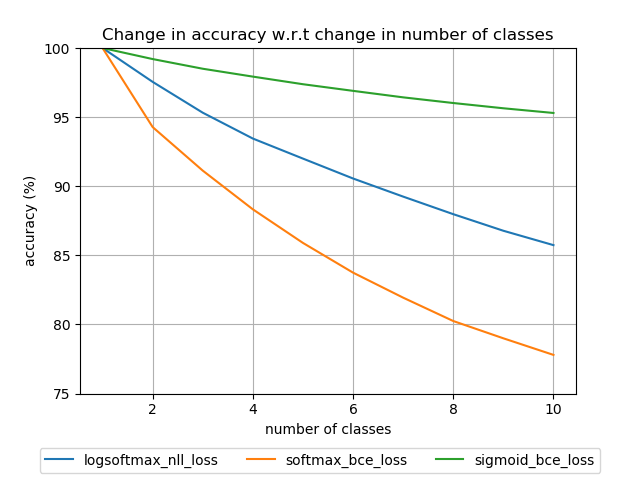
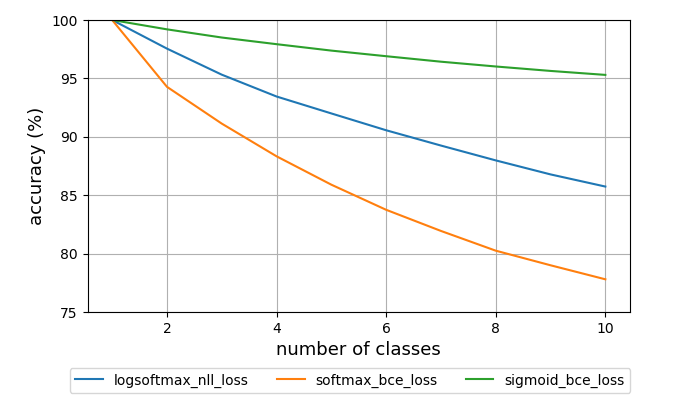
MNIST completed

diff --git a/report/project.tex b/report/project.tex
@@ -40,17 +40,20 @@
 \usepackage{amsmath}
 \usepackage{booktabs}
 \usepackage{multirow}
+\usepackage{titlesec}
+
 \newcommand{\red}[1]{\textcolor{red}{#1}}
+
 
 
 \title{Dynamic Model Construction for Efficient Classification}
 
 \author{
-	Jaejun Lee \\
-	School of Computer Science\\
-	University of Waterloo\\
-	Waterloo, ON, N2L 3G1 \\
-	\texttt{j474lee@uwaterloo.ca} \\
+    Jaejun Lee \\
+    School of Computer Science\\
+    University of Waterloo\\
+    Waterloo, ON, N2L 3G1 \\
+    \texttt{j474lee@uwaterloo.ca} \\
 }
 
 \begin{document}
@@ -85,24 +88,6 @@ Transfer learning is inspired by the same assumption as in multi-task learning; 
 
 \section{Dynamic Model Construction with Class-level Transfer Learning}
 
-% \begin{figure*}[t]
-%     \centering
-%     \begin{subfigure}[b]{.3\linewidth}
-%         \centering
-%         \includegraphics[scale=0.48,trim={0mm 1.6mm 0mm 0mm},clip]{learning_rate.png}
-%     \end{subfigure}%
-%     \begin{subfigure}[b]{.3\linewidth}
-%         \centering
-%         \includegraphics[scale=0.48,trim={0mm 1.6mm 0mm 0mm},clip]{epoch.png}
-%     \end{subfigure}
-%     \begin{subfigure}[b]{.3\linewidth}
-%         \centering
-%         \includegraphics[scale=0.48,trim={0mm 1.6mm 0mm 0mm},clip]{epoch.png}
-%     \end{subfigure}
-%     \caption{Change in accuracy while varying the number of epochs and learning rate, along with 95\% confidence interval (shaded).}
-%     \label{figure:change}
-% \end{figure*}
-
 \subsection{Approach}
 
 In this section, I introduce how to achieve dynamic model construction which adopts to the change in target class set.
@@ -114,14 +99,14 @@ Next consider a case of transfer learning. Pre-training a model and fine-tuning 
 Exploiting these characteristics in two distinct domains, the proposed algorithm can be summarized as following:
 
 \begin{enumerate}
-	\item pre-train a model as if it is targeting multi-classification problem
-	\item freeze the model parameters
-	\item fine-tune a model to obtain class-specific weights (step 4 $\sim$ 7)
-	\item construct a dataset which labels corresponding class as positive and the others as negative.
-	\item replace the last full-connected layer with two classes
-	\item fine-tune the last layer with the constructed data
-	\item store weights for positive class
-	\item at the time of the inference, the last fully-connected layer is dynamically constructed to classify the given set of class by loading corresponding weights obtained from fine-tuning
+    \item pre-train a model as if it is targeting multi-classification problem
+    \item freeze the model parameters
+    \item fine-tune a model to obtain class-specific weights (step 4 $\sim$ 7)
+    \item construct a dataset which labels corresponding class as positive and the others as negative.
+    \item replace the last full-connected layer with two classes
+    \item fine-tune the last layer with the constructed data
+    \item store weights for positive class
+    \item at the time of the inference, the last fully-connected layer is dynamically constructed to classify the given set of class by loading corresponding weights obtained from fine-tuning
 \end{enumerate}
 
 For simplicity, I will call this algorithm as composing algorithm, the model trained for multi-class as base model, models constructed from step 4 $\sim$ 7 as fine-tuned models and the model constructed from the last step as composed model.
@@ -131,9 +116,9 @@ For simplicity, I will call this algorithm as composing algorithm, the model tra
 Recall that the desired composed model should satisfy the following conditions:
 
 \begin{enumerate}
-	\item \red{preserve accuracy}
-	\item Dynamic addition and removal of a class must be possible
-	\item Minimal computation is desired for an inference
+    \item \red{preserve accuracy}
+    \item Dynamic addition and removal of a class must be possible
+    \item Minimal computation is desired for an inference
 \end{enumerate}
 
 Addition and removal of a class is possible with the composing algorithm as it can be achieved simply by adding or removing corresponding fully-connected connections.
@@ -179,54 +164,89 @@ It is found that multi-label classification has raised the same issue with CE lo
 
 \section{Experiments}
 
-In this experiment, I report how accuracy of composed model changes with respect to different loss function. The goal of this experiment is to prove the limitation of CE loss empirically and demonstrates the feasibility of composing algorithm.
+Realising the theoritical limitation of cross entropy loss, I have conducted thorough experiments using PyTorch, reporting how different loss function affects the performance of composed model.
 
-\subsection{Experimental Setup}
+In this experiment, I evaluate three different loss functions. First loss function is CE loss. Since PyTorch NLL loss implementation expects log probability, log is applied after softmax but it is found that this does not affect the conclusion from the experiments. Next, I include sigmoid with BCE loss which successfully preserves accuracy between base and composed model. Lastly, I include BCE loss with softmax. This setting is known to be unstable because BCE loss assumes the independence among classes. In fact, I have observed the training collapse once it reaches a certain point. However, since we report accuracy from the best model, results from this setting is still valid and meaningful. This setting should demonstrate how crucial sigmoid is in the composing algorithm as it simply replace sigmoid with softmax from last setting.
 
-Using PyTorch, the experiments are conducted on MNIST, a standard benchmark for classification~\cite{lecun1998gradient} with a modified version of LeNet-5 ~\cite{lecun2015lenet}. LeNet-5 is constructed with two convolutional, one dropout and two fully connected layers. The original implementation of LeNet-5 has 10 and 20 channels for the two convolutional layers and produces accuracy of 98\% on MNIST dataset. Since our goal of this experiment is to see the performance degradation, the network is modified to have 5 channels for two convolutional layers which is found to produce more descriptive results.
-
-The model is trained with 3 different loss function. First loss function is CE loss. Since PyTorch NLL loss expects log probability, log is applied after softmax but this does not affect the experiment results. Next, I include sigmoid with BCE loss as a proposed solution to preserve accuracy. Lastly, I also include BCE loss with softmax. This setting is useful to understand how crucial sigmoid is for loss function in composing algorithm. The last setting is known to be unstable because BCE loss assumes the independence among classes. In fact, I have observed the training collapse once it reaches a certain point. However, since we report accuracy from the best model, results from this setting is still valid and meaningful.
-
-% Dataset
-% epoch & optimizer
-% random seed 50 experiments taking average
-
-\subsection{Experimental results}
+Experiments are conducted with MNIST, Keyword Spotting, and CIFAR100 varying on number of classes, 10, 30, and, 100 respectively. From each experiment, I report accuracy of base model, fine-tuned model, and composed model. Furthermore, as I construct composed model by adding a class at a time, I also report accuracy for each intermediary composed model to understand how how number of classes affects the accuracy of combined model. It is found that the intermediary composed model accuracy fluctuate quite a bit depending on the order each class is added. Therefore, I repeat this process 10 times for each base model as I randomly select a class to add next.
 
 
-% table explain the original accuracy and high accuracy
+% To reduce the effects of outliers, experiments are conducted multiple times and average results are included in this report. Due to the limited time, number of iterations are different for each experiment and discussed along with other data specific experimental setting in the following section.
+
+\subsection{MNIST}
+
+MNIST is a standard benchmark for classification~\cite{lecun1998gradient} which consist of images for handwritten digits. Among the wide range of model architecture solving this problem, I have conducted my experiments with LeNet-5 ~\cite{lecun2015lenet}. LeNet-5 is constructed with two convolutional, one dropout and two fully connected layers. The original implementation of LeNet-5 has 10 and 20 channels for the two convolutional layers and produces accuracy of 98\% on MNIST dataset. Since our goal of this experiment is to understand the difference in peformance caused by different loss functions, I intentionally limited the expressive power of the network by constructing the network with only 5 channels for both convolutional layers.
+
+Both base model training and fine-tuning is conducted using Adam optimizer with learning rate of 0.0001. It is found that 5 epochs are enough for each training to be converged and LeNet-5 achieves average accuracy of 95\% with the base model and 98\% with the fine-tuned model (see Figure \ref{table:mnist_base} and \ref{table:mnist_fine_tuned}). In fact, all three loss functions present similar accuracy confirming that the comparison on the composed model is fair.
+
+Figure \ref{table:mnist_base} summarizes how the accuracy changes as number of classes increases for composed model. No matter which loss function is used for composing algorithm, decrease in accuracy is found as more classes are involved for the composed model construction. However, models with softmax based loss is found to suffer at a greater rate than models with sigmoid based loss. With CE loss, the composed model for all 10 classes has an accuracy of 85.86\% introducing about 10\% decrease compared to the base model. BCE loss with softmax is found to be the least effective for composing algorithm as it leads to final accuracy of 78.50\%. On the other hand, BCE loss with sigmoid introduces the minimal degradation and achieves the finall accuracy of 95.29\%. This proves that class independence training is crucial with the composing algorithm.
+
+\begin{table}[t]
+    \mbox{}\hfill
+    \begin{minipage}[c]{0.49\textwidth}
+        \centering{\ttfamily
+            \begin{tabular}{cc}
+                \toprule[1pt]
+                \bf{Loss function} &
+                \bf{Base model} \\
+                \midrule
+                LogSoftmax + NLL & 95.82 \\
+                Softmax + BCE & 94.86 \\
+                Sigmoid + BCE & 95.48 \\
+                \bottomrule[1pt]
+            \end{tabular}
+    }
+    \end{minipage}
+    \hfill
+    \begin{minipage}[c]{0.49\textwidth}
+        \centering
+        \includegraphics[scale=0.4,trim={0mm 0mm 0mm 0mm},clip]{mnist.png}
+    \end{minipage}
+    \hfill
+    \mbox{}
+
+    \caption{Accuracy of base model(left) and composed model with respect to number of classes(right)}
+    \label{table:mnist_base}
+\end{table}
 
 \begin{table*}[t]
     \centering
     \small
     \scalebox{0.9}{
-	    \begin{tabular}{ccccccccccccc}
-	        \toprule[1pt]
-	        \multirow{2}{*}{\raisebox{-3\heavyrulewidth}{\bf Loss function}} &
-	        \multirow{2}{*}{\raisebox{-3\heavyrulewidth}{\bf Base model}} &
-        	\multirow{2}{*}{\raisebox{-3\heavyrulewidth}{\bf Combined model}} &
-        	\multicolumn{10}{c}{\bf Fine tuned model } \\
-        	\cmidrule(lr){4-13}
-			& & & 0 & 1 & 2 & 3 & 4 & 5 & 6 & 7 & 8 & 9 \\
-	        \midrule
-			LogSoftmax + NLL & 95.82 & 85.86 & 99.04 & 99.23 & 97.79 & 98.18 & 98.09 & 98.03 & 98.64 & 97.74 & 97.12 & 96.34 \\
-			Softmax + BCE & 94.86 & 78.50 & 98.81 & 99.09 & 97.23 & 97.60 & 97.45 & 97.04 & 98.34 & 97.32 & 96.46 & 95.44 \\
-			Sigmoid + BCE & 95.48 & 95.29 & 99.03 & 99.19 & 97.68 & 98.21 & 98.31 & 98.09 & 98.54 & 97.57 & 97.18 & 96.66 \\
-	        \bottomrule[1pt]
-	    \end{tabular}
+        \begin{tabular}{ccccccccccc}
+            \toprule[1pt]
+            \multirow{2}{*}{\raisebox{-3\heavyrulewidth}{\bf Loss function}} &
+            \multicolumn{10}{c}{\bf Fine tuned model } \\
+            \cmidrule(lr){2-11}
+            & 0 & 1 & 2 & 3 & 4 & 5 & 6 & 7 & 8 & 9 \\
+            \midrule
+            LogSoftmax + NLL & 99.04 & 99.23 & 97.79 & 98.18 & 98.09 & 98.03 & 98.64 & 97.74 & 97.12 & 96.34 \\
+            Softmax + BCE & 98.81 & 99.09 & 97.23 & 97.60 & 97.45 & 97.04 & 98.34 & 97.32 & 96.46 & 95.44 \\
+            Sigmoid + BCE & 99.03 & 99.19 & 97.68 & 98.21 & 98.31 & 98.09 & 98.54 & 97.57 & 97.18 & 96.66 \\
+            \bottomrule[1pt]
+        \end{tabular}
     }
-    \caption{Accuracy with different loss function}
-    \label{table:accuracy}
+    \caption{Accuracy of fine-tuned model per each class}
+    \label{table:mnist_fine_tuned}
 \end{table*}
-% explain how 10 at random
 
-% graphs,
 
+
+\subsection{Keyword Spotting}
+
+\subsubsection{Experimental Setup}
+
+\subsubsection{Experimental results}
+
+
+
+\subsection{CIFAR100}
 
 densenet ~\cite{huang2017densely}
+\subsubsection{Experimental Setup}
 
+\subsubsection{Experimental results}
 
-\section{Case study}
 
 
 \section{Conclusion}

diff --git a/graphs/accuracy.py b/graphs/accuracy.py
@@ -12,7 +12,7 @@ num_model = results['num_model']
 
 print("num_model", num_model)
 
-fig, ax = plt.subplots()
+fig = plt.figure(figsize=(7,4))
 
 legends = []
 
@@ -21,20 +21,21 @@ for loss in EXP_LOSS:
 
     values = value['combined_model']['average_accuracy']
     num_class = results.get('num_class', len(values))
-    legend = ax.plot(np.arange(num_class) + 1, values)
+    legend = plt.plot(np.arange(num_class) + 1, values)
     legends.append(legend)
 
+font_size = 13
+plt.xlabel('number of classes', fontsize=font_size)
+plt.ylabel('accuracy (%)', fontsize=font_size)
 
-ax.set(xlabel='number of classes', ylabel='accuracy (%)', title='Change in accuracy w.r.t change in number of classes')
-ax.set_ylim(75, 100)
+plt.ylim(75, 100)
 
 fig.legend(legends,     # The line objects
            labels=EXP_LOSS,
            loc=8,  # Position of legend
            ncol=3
            )
-
-ax.grid()
-fig.subplots_adjust(bottom=0.18, top=0.9)
+plt.grid()
+fig.subplots_adjust(bottom=0.22, top=0.95)
 fig.savefig("mnist.png")
 plt.show()
